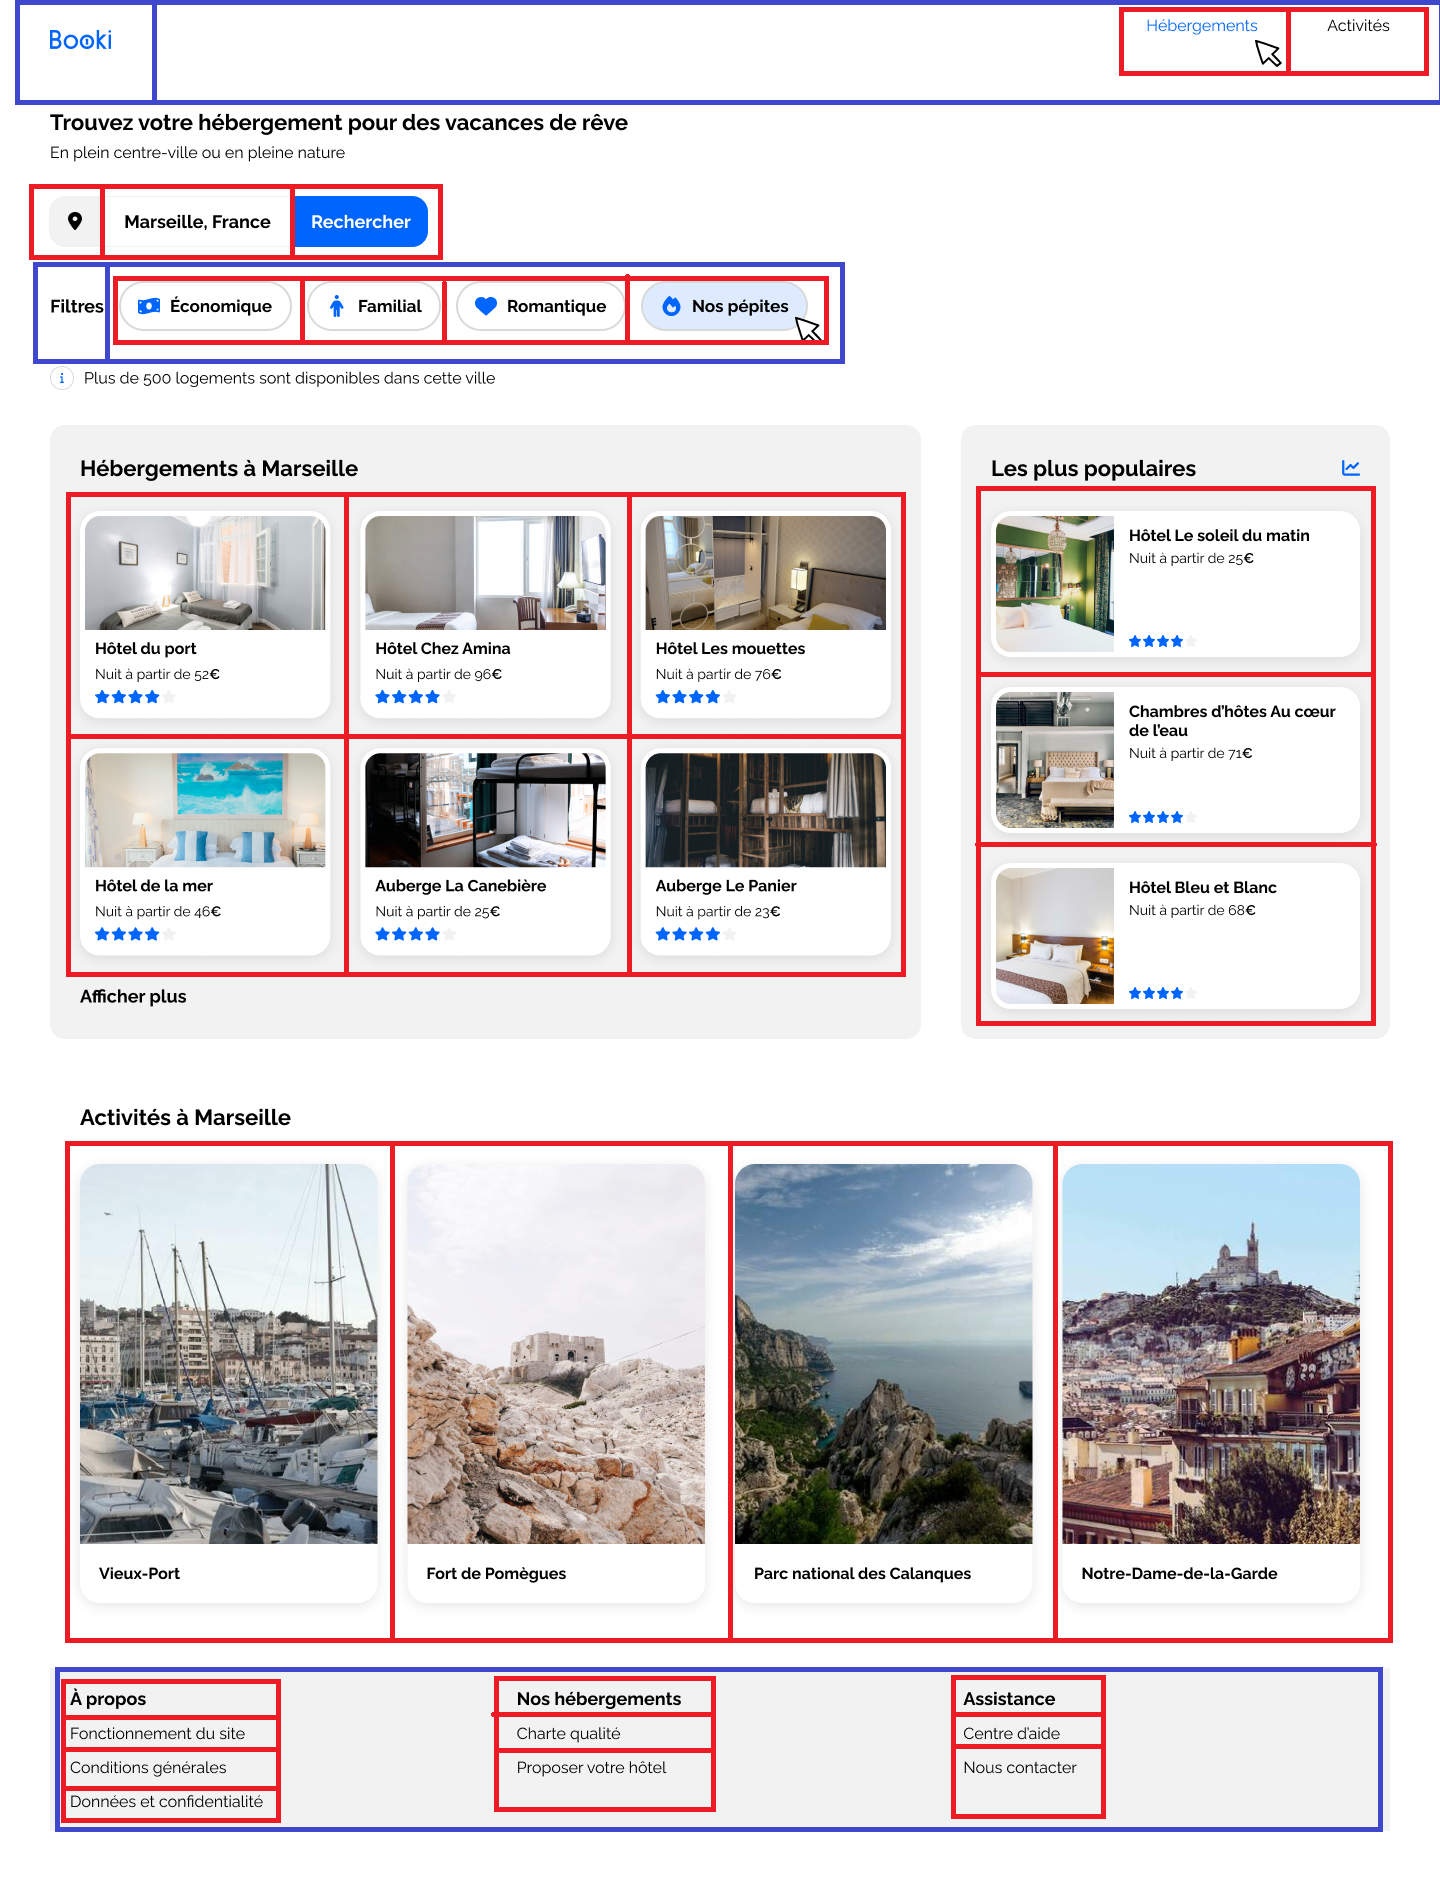
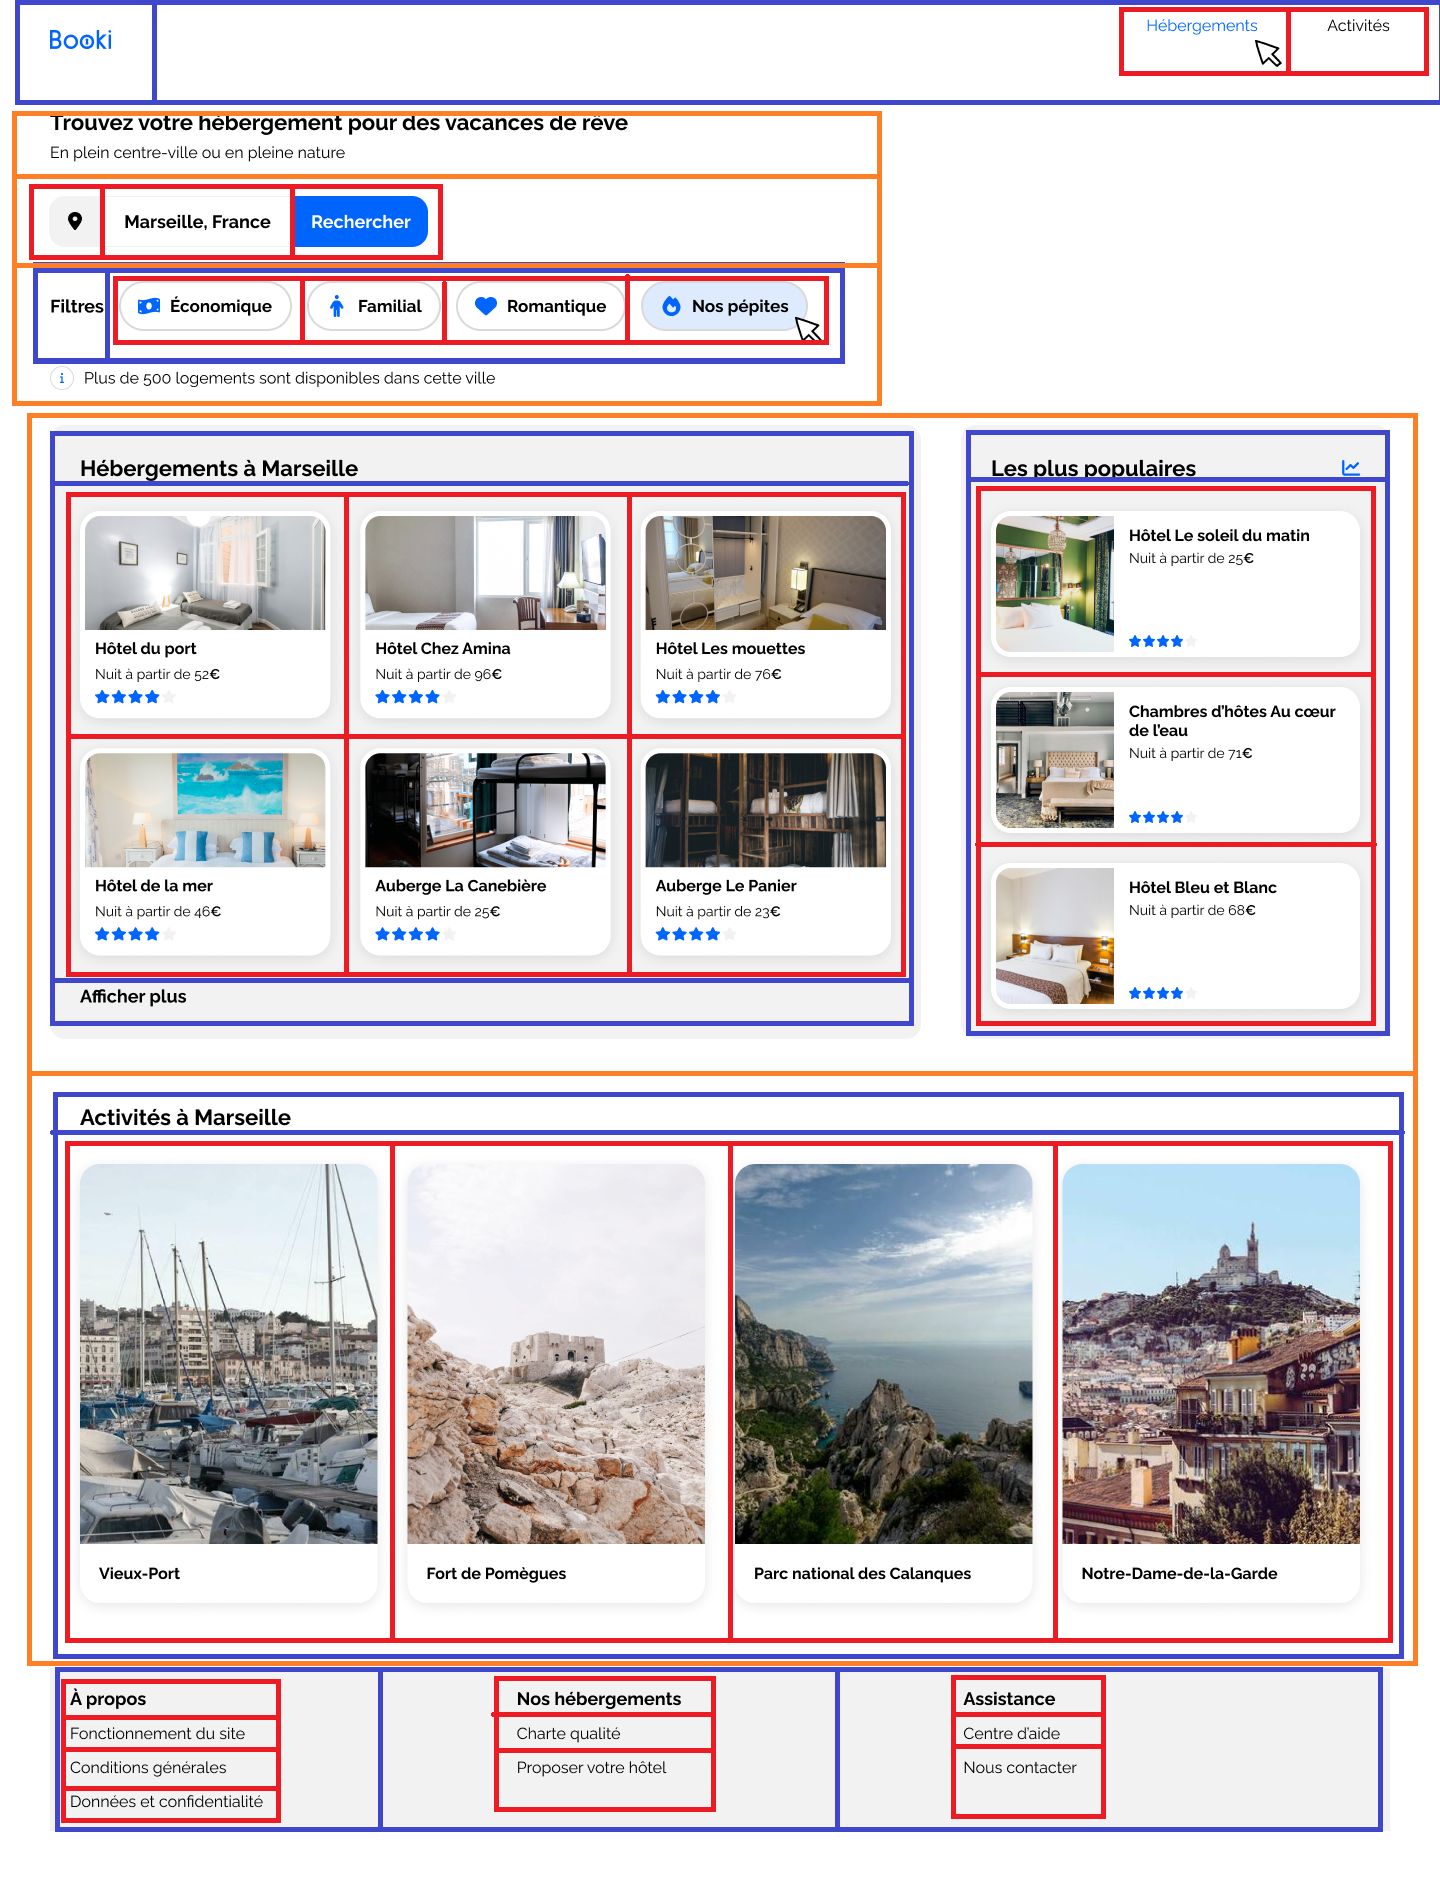
Responsive écran ordi

Changed region(s): [[0.0, 0.0624, 1.0, 0.9677]]

diff --git a/css/style.css b/css/style.css
@@ -241,6 +241,13 @@ background-color: #DEEBFF;
 
     /* FIN Barre d'infos */
 
+
+    .main-sections {
+        display: flex;
+        flex-direction: column;
+        gap: 25px;
+    }
+
 /****** Hebergements And Populaires ***********/
 .hebergements-and-populaires {
     display: flex;
@@ -278,20 +285,22 @@ background-color: #DEEBFF;
     border-radius: 20px;
     padding: 5px;
     filter: drop-shadow(0px 3px 15px rgba(0, 0, 0, 0.1));
+    box-sizing: border-box;
 }
 
 .hebergements-cards {
-    width: 250px;
+    width: 30%;
     height: 210px;
 }
 
 .hebergements-cards img {
-    width: 240px;
+    width: 100%;
     height: 124px;
     border-top-left-radius: 20px;
     border-top-right-radius: 20px;
     object-fit: cover;
-    margin-bottom: 10px;
+    margin-bottom: 5px;
+    box-sizing: border-box;
 }
 
 .hebergements-cards h4 {
@@ -366,14 +375,16 @@ background-color: #DEEBFF;
 
 /****** Activités ***********/
 
+.activities {
+    padding-left: 30px;
+    padding-right: 30px;
+}
 .activities-section {
     display: flex;
     flex-direction: column;
     width: 100%;
     height: 560px;
     justify-content: space-evenly;
-    margin-top: 30px;
-    padding: 30px;
 }
 
 .activities-cards-flex {
@@ -381,32 +392,43 @@ background-color: #DEEBFF;
     flex-wrap: wrap;
     justify-content: space-between;
     width: 100%;
-    height: 440px;
+}
+
+.activities-cards {
+    width: 23%;
 }
 
 .activities-card {
-    width: 300px;
-    height: 440px;
+    width: 100%;
+    height: 100%;
     background-color: white;
     border-radius: 20px;
     filter: drop-shadow(0px 3px 15px rgba(0, 0, 0, 0.1));
 }
 
+.activities-card-content {
+    padding-left: 10px;
+    display: flex;
+    flex-direction: column;
+    line-height: 16px;
+    justify-content: space-between;
+}
+
 .activities-cards img {
-    width: 300px;
+    width: 100%;
     height: 380px;
     border-top-left-radius: 20px;
     border-top-right-radius: 20px;
     object-fit: cover;
+    box-sizing: border-box;
 }
 
 .activities-cards h4 {
-    width: 300px;
-    height: 60px;
     padding: 20px;
     font-size: 16px;
     margin-bottom: 0px;
     margin-top: 0px;
+    box-sizing: border-box;
 }
 
 /****** FOOTER ***********/
@@ -419,6 +441,7 @@ background-color: #DEEBFF;
     display: flex;
     justify-content: space-between;
     margin-top: 30px;
+    box-sizing: border-box;
 }
 
 .footer-flex {
@@ -443,12 +466,22 @@ background-color: #DEEBFF;
 /****** Media queries ***********/
 /* Medium devices (tablets, less/equal than 1024px) */
 @media (max-width: 1024px) {
-    .hebergements-and-populaires {
+
+    .main-sections {
+        display: flex;
         flex-direction: column;
+        gap: 100px;
+    }
+
+    .hebergements-and-populaires {
+        display: flex;
+        flex-direction: column;
+        margin-bottom: 250px;
     }
 
     .hebergements {
         width: 100%;
+        gap: 30px;
     }
 
     .populaires {
@@ -473,10 +506,18 @@ background-color: #DEEBFF;
     .populaires-cards .card-subtitle {
         font-size: 13px;
     }
+
+    .activities-section {
+        height: 400px;
+    }
+    
+    .activities-cards img {
+        height: 200px;
+    }
 }
 
-/* Small devices (phones, less than 400px) */
-@media (max-width: 400px) {
+/* Small devices (phones, less than 768px) */
+@media (max-width: 768px) {
     /* ... */
     .nav {
         justify-content: center;

diff --git a/index.html b/index.html
@@ -28,7 +28,7 @@
                     </nav>
                 </header>
 
-                <main>
+        <main>
                     <div class="headline-flex">
                         <div class="headline-box"><h1>Trouvez votre hébergement pour des vacances de rêve</h1></div>
                         <div class="headline-box"><p>En plein centre-ville ou en pleine nature</p></div>
@@ -59,6 +59,7 @@
                     
                 <!-- HEBERGEMENTS ET POPULAIRES -->
 
+            <div class="main-sections">
                     <div class="hebergements-and-populaires">
                         <section class="hebergements">
                             <div class="hebergements-title">
@@ -247,33 +248,34 @@
                     <div class="activities-cards">
                         <a href="#"><article class="activities-card">
                           <img src="images/activites/reno-laithienne.jpg" alt="Image du Vieux-Port avec des bâteaux">
-                          <div class="hebergements-card-content">
+                          <div class="activities-card-content">
                             <div><h4>Vieux-Port</h4></div> 
                             </article></a>
                     </div>
                     <div class="activities-cards">
                         <a href="#"><article class="activities-card">
                           <img src="images/activites/paul-hermann.jpg" alt="Image du Fort de Pomègues">
-                          <div class="hebergements-card-content">
+                          <div class="activities-card-content">
                             <div><h4>Fort de Pomègues</h4></div> 
                             </article></a>
                     </div>
                     <div class="activities-cards">
                         <a href="#"><article class="activities-card">
                           <img src="images/activites/kilyan-sockalingum.jpg" alt="Image du Parc National des Calanques">
-                          <div class="hebergements-card-content">
+                          <div class="activities-card-content">
                             <div><h4>Parc National des Calanques</h4></div> 
                             </article></a>
                     </div>
                     <div class="activities-cards">
                         <a href="#"><article class="activities-card">
                           <img src="images/activites/florian-wehde.jpg" alt="Image de Notre-Dame-de-la-Garde">
-                          <div class="hebergements-card-content">
+                          <div class="activities-card-content">
                             <div><h4>Notre-Dame-de-la-Garde</h4></div> 
                             </article></a>
                     </section>
                 </div>
-                </main>
+            </div>
+        </main>
                 
                 <footer>
                     <div class="footer">
